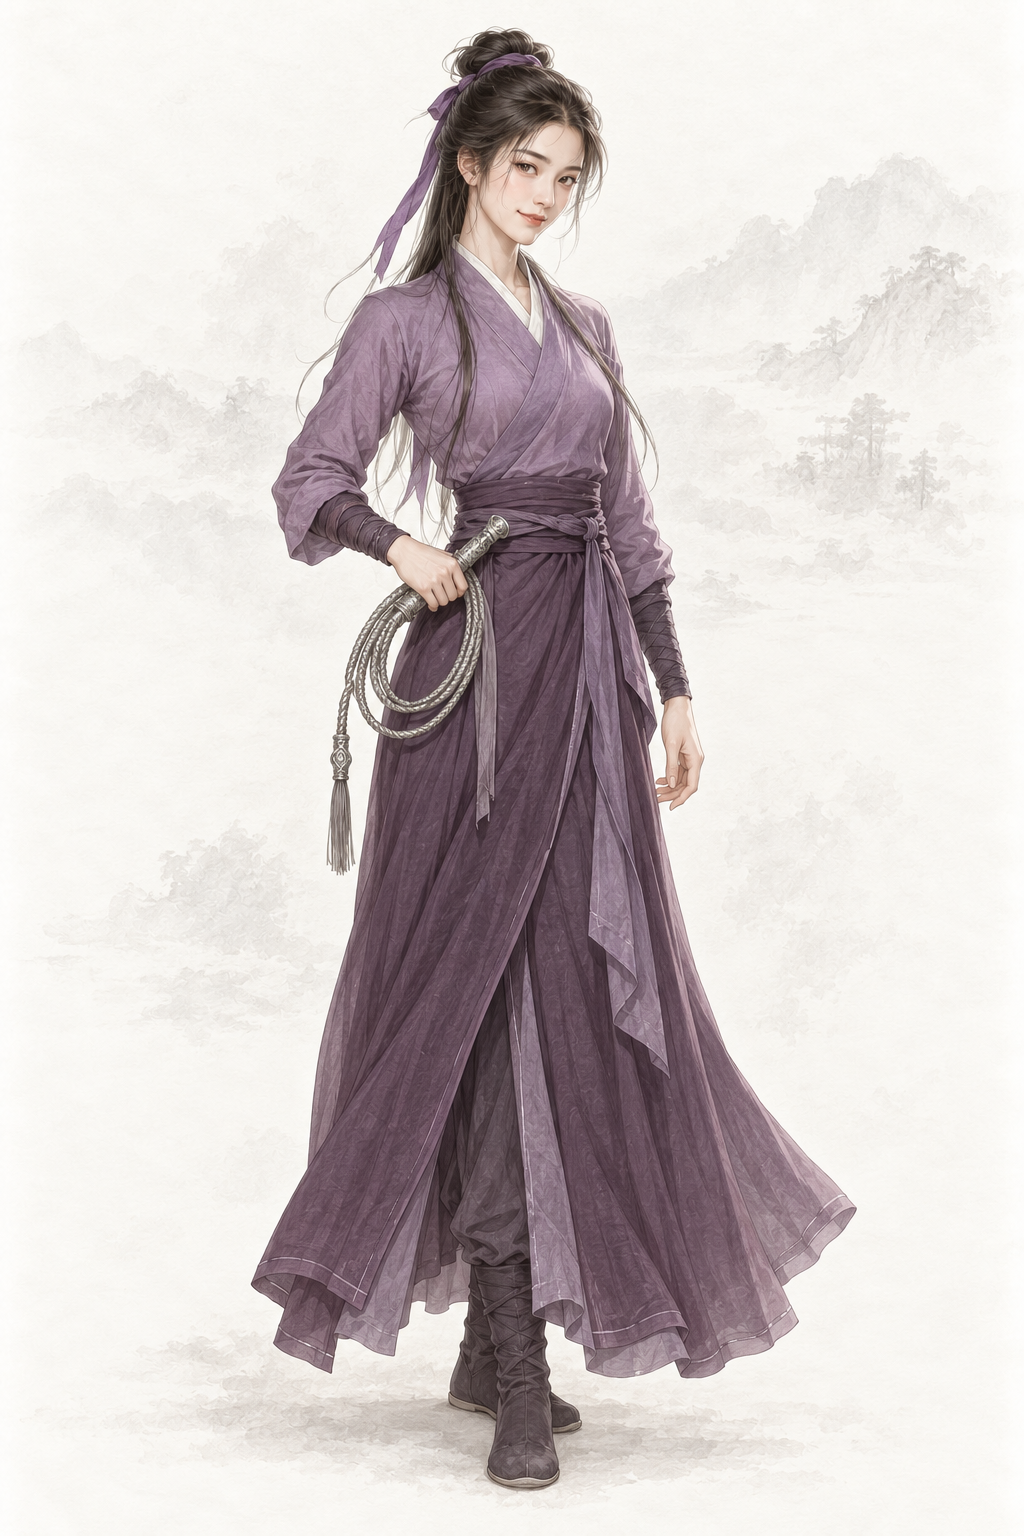
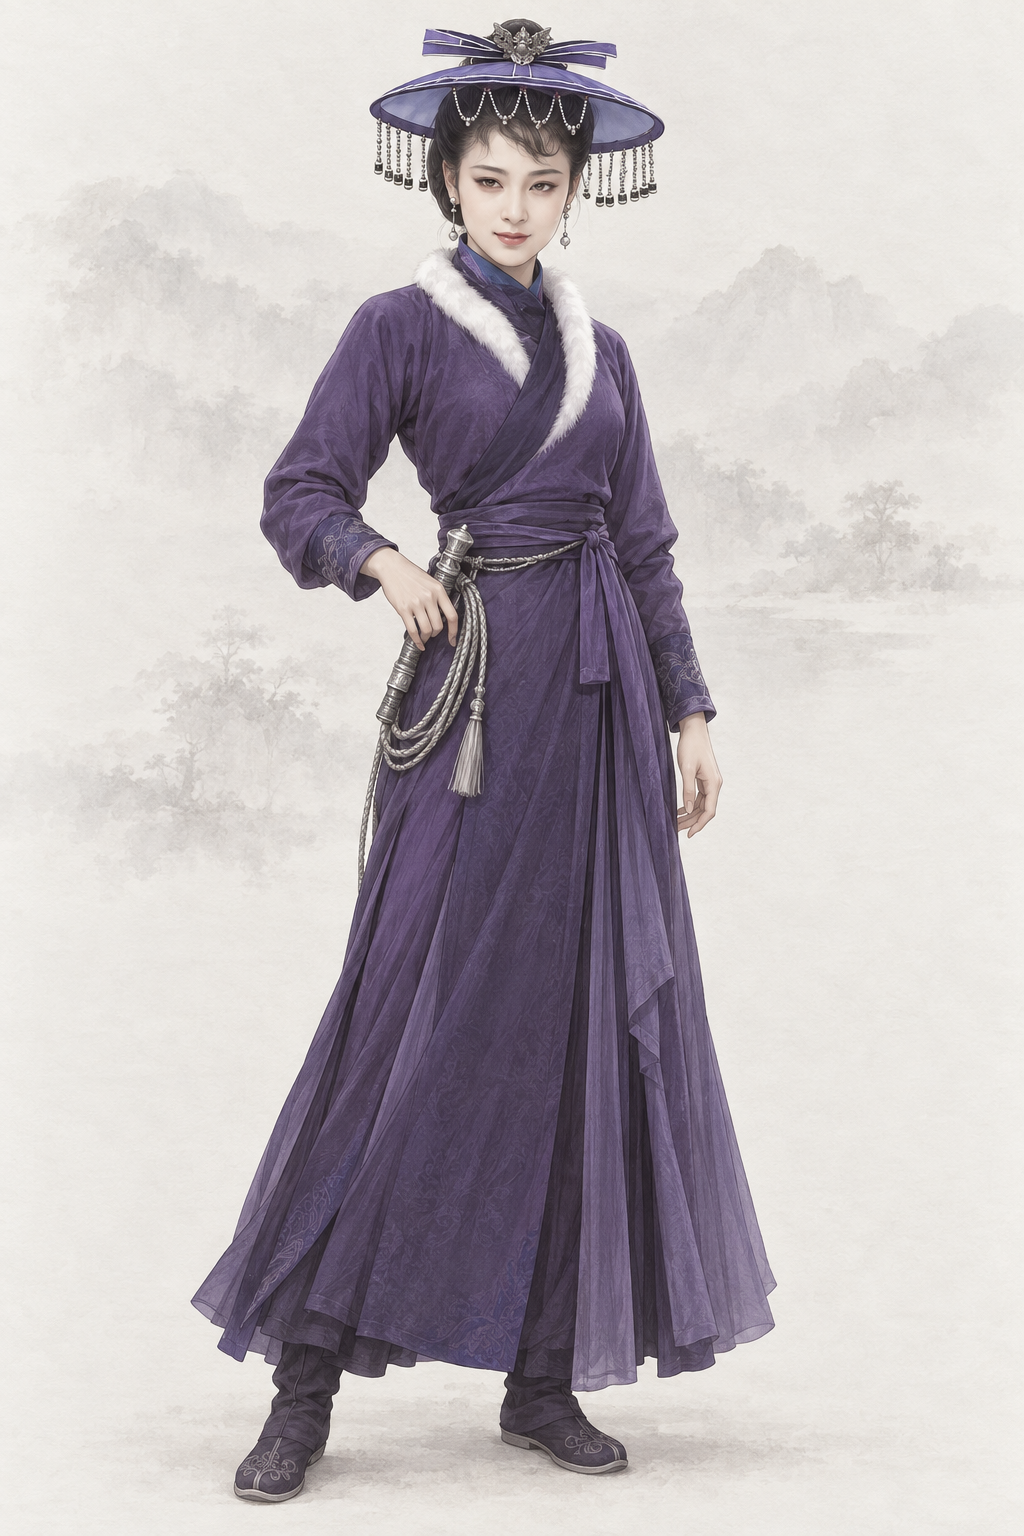
assets(character): por_npc_yuanziyi__ch13_youth_ziyi_base 袁紫衣（codex · AR-32 经典剧照重出）
1991 年台视《雪山飞狐》（含飞狐外传情节）剧照 2 张 + 基线；提示词写回「## Gemini 提示词」，上一版留作历史，frontmatter 加 classic_ref。

diff --git a/assets/default/prompts/characters/ch13-feihu/npc_yuanziyi.md b/assets/default/prompts/characters/ch13-feihu/npc_yuanziyi.md
@@ -13,9 +13,18 @@ references:
     use: 当前仓库 manifest 状态为 approved，已通过审批；仅参考纸底、光线、笔触与设色，不沿用参考人物的脸、体型、服饰或道具
 status: new
 redo_reason: "飞狐女主尚无立绘；按原著「瓜子脸、双眉修长、眼大嘴小、紫衣、银丝软鞭」补出成年女子形象。"
-reference_upload:
-- assets/default/baseline/character/female/ref_npc_wangyuyan__ch01_base01.png
 codex_prompt_rev: 2026-10-02
+classic_ref:
+  version: "1991 年台视《雪山飞狐》（含飞狐外传情节）"
+  stills:
+  - ".agents/coord/imagegen-reference/identity-20261001/feihu/yuanziyi-1991-wuyujuan/yuanziyi_1991_wuyujuan_sina2022_3.jpg"
+  - ".agents/coord/imagegen-reference/identity-20261001/feihu/yuanziyi-1991-wuyujuan/yuanziyi_1991_wuyujuan_sina2022_2.jpg"
+  note: "剧照缩到长边 1024 的 JPEG 上传，放在两张同性别基线之前（AR-32）；yuanziyi_1991_wuyujuan_sina2022_2.jpg 裁切框 (0.2, 0.0, 1.0, 1.0)"
+reference_upload:
+- .agents/coord/imagegen-reference/identity-20261001/feihu/yuanziyi-1991-wuyujuan/yuanziyi_1991_wuyujuan_sina2022_3.jpg
+- .agents/coord/imagegen-reference/identity-20261001/feihu/yuanziyi-1991-wuyujuan/yuanziyi_1991_wuyujuan_sina2022_2.jpg
+- assets/default/baseline/character/female/ref_npc_wangyuyan__ch01_base01.png
+- assets/default/baseline/character/female/ref_npc_xiaolongnv__ch03_base01.png
 ---
 
 <!-- full-coverage-import:current-policy:v1 -->
@@ -28,6 +37,26 @@ codex_prompt_rev: 2026-10-02
 # 袁紫衣 · 《飞狐外传》（ch13）
 
 ## Gemini 提示词
+
+> 2026-10-02 AR-32 经典剧照重出（6 号出图员，codex exec · image_gen 出图）：上传该角色经典影视版剧照 2 张（1991 年台视《雪山飞狐》（含飞狐外传情节）：yuanziyi_1991_wuyujuan_sina2022_3.jpg、yuanziyi_1991_wuyujuan_sina2022_2.jpg）在前、两张同性别基线在后。剧照只借鉴发型、服饰、配色、标志道具、气质与面部特征，重新绘制成项目画风，不照搬照片的构图、光影和姿势；人物一律成年。提示词里不写演员名。上一版提示词保留在下一节作历史。
+
+```text
+生成一张 2:3 竖幅全身人物立绘：单人、单一视角、完整全身——头顶、双手、双脚和手中器物的两端都在画面内，四周留出自然空白；人物站姿自然，身体基本朝向正面，头部端正（不歪头、不仰不俯），镜头平视。
+【参考图】随提示词上传 4 张参考图。第 1–2 张参考图是该角色经典影视造型的剧照：借鉴其发型、服饰、配色、标志道具、气质和面部特征，让人一眼认出是这个角色；但必须重新绘制成项目画风，不要照片质感，不要照搬剧照的构图、光影、背景和姿势，也不要做成照片修图。剧照与下文文字不一致的地方（年龄、所处阶段、帽饰与衣装细节、手中器物），以下文文字为准；画中人一律是成年人。最后两张是本项目画风基线：画风、用色、光线、质感和暖浅灰纸底加淡水墨背景以它们为准。
+【画风】写实手绘古风人物插画，与本项目写实武侠角色立绘同一画风，像功力深厚的画师用细腻笔触画出的真实美人。手绘插画质感，不是 CG 渲染：不要过度光滑的皮肤、完美对称的五官、塑料高光、过度锐利的发丝；保留自然的笔触和细微不完美。肌肤细腻自然，看得见极细的肤理和自然的左右不对称，不磨皮、不油亮、不打粉；头发是一缕缕自然的发丝和少量碎发；布料看得出经纬纹理、厚薄和自然垂坠的褶皱，干净完整；整体设色低饱和、雅致；柔和的自然光从左上方照来，明暗过渡自然，不打舞台光、轮廓光或美颜柔光。不是照片，不是三维渲染，不是动漫或游戏 CG，也不是油画（没有厚涂笔触和画布纹理）。
+【背景】不透明的暖浅灰色纸底，只在远处有极淡的水墨远山和薄雾，大面积留白；人物与背景明暗分明、轮廓边缘干净完整（后续要自动抠图），水墨和纸纹只在背景里，不侵入人物和衣服；脚下只有很淡的一点接触阴影。
+【人物】袁紫衣，金庸《飞狐外传》的女主角，一身紫衣、骑白马的神秘女郎，武功杂学多门，真实身份是佛门弟子圆性，此时尚未表明。
+【年龄与体态】约二十岁的成年女子，身材苗条修长，腰背有练武的劲，约七头身。
+【经典造型】要一眼认出是袁紫衣——紫色宽檐珠帘帽、一身镶白毛领的紫衣、腰缠银丝软鞭，瓜子脸、双眉修长、眼神带着傲气和捉弄人的笑；明艳灵动、容光照人的女主角。
+【面容】脸以剧照为底子——保留剧照里这个角色的脸型、眉眼、鼻唇的比例关系和神气，画成成年人；瓜子脸（下巴秀气但有骨感，不是 V 字锥子下巴）；双眉修长，眉尾微挑；眼睛大而灵动，眼神里带着傲气和捉弄人的笑意；鼻梁挺秀；嘴小，唇形端正；肤色是健康的浅蜜色，容光照人。
+【发式】乌黑的头发挽成简洁的发髻，额前细碎的薄刘海，耳边一缕碎发；头戴一顶紫色宽檐平顶帽，帽檐一圈垂着短短的珠串流苏，不遮住脸。汉族女子发式。
+【服饰】紫色窄袖短衫（领口镶一圈白色毛边），深紫色便行长裙，裙下是长裤，素色软靴；交领右衽（穿着者左襟压右襟）；颜色是沉稳的紫，不是荧光紫。
+【道具与姿态】腰间缠着一条银丝软鞭，银色鞭柄露在右腰侧；右手轻按鞭柄。不佩剑。重心偏在一条腿上，一手按鞭柄，一手自然垂下，嘴角挂着一点挑衅的笑。
+【不要】画面里不要任何文字、题款、印章、签名、水印、台标、边框、分格或多视图；不要第二个人；不要幼态（童颜、娃娃脸、婴儿肥、儿童或少年身材、大头小身）；不要塑料感皮肤、磨皮美颜、网红脸（尖下巴大眼高鼻的模板脸）、过度对称、浓妆、偶像式打光、蜡像感；不要照片质感、三维渲染或动漫大眼；不要歪头、斜镜头；不要多指、缺指（设定的伤残除外）、手与器物粘连或悬空；汉式交领必须右衽（穿着者的左襟压在右襟上），不要左衽（设定为少数民族服制的除外），不要水平镜像；不要现代物品、日式服饰或日本刀、发光特效、法阵或能量光。不要照片或照片修图的质感，不要照搬剧照的构图、光影、背景和姿势，不要剧照里的字幕、台标和水印。不要浓妆、性感化或暴露的衣着；不要网红脸；不要童颜；不要尼姑装或光头（这一阶段不是）；不要长剑；不要白马或其他动物。不要照搬剧照里的红色斗篷。
+【画风基线】随提示词上传的参考图里，最后两张是本项目的立绘画风基线：只参考它们的画风、用色、光线、质感和暖浅灰纸底加淡水墨的背景处理，整体画风必须与它们一致——精细写实的数字手绘插画，不是油画，不要厚涂笔触和画布纹理。基线图只取画风，不取长相：不要照搬基线图里人物的长相、年龄、发型、服饰和姿势。
+```
+
+## 上一版 Gemini 提示词（2026-10-02 文字版；AR-32 经典剧照重出前，历史，不再用于出图）
 
 > 2026-10-02 Codex 人物线 2 号（AR-31）：在审核组稿上补一行「经典形象」（借鉴公认经典造型的发式、装束、配色、标志道具与气质，只写文字，不写演员名、不上传剧照），并补去 AI 化要求。本轮出图用下面第一个代码块；审核组原稿保留在其后的「审核组原稿」小节作历史。
 
